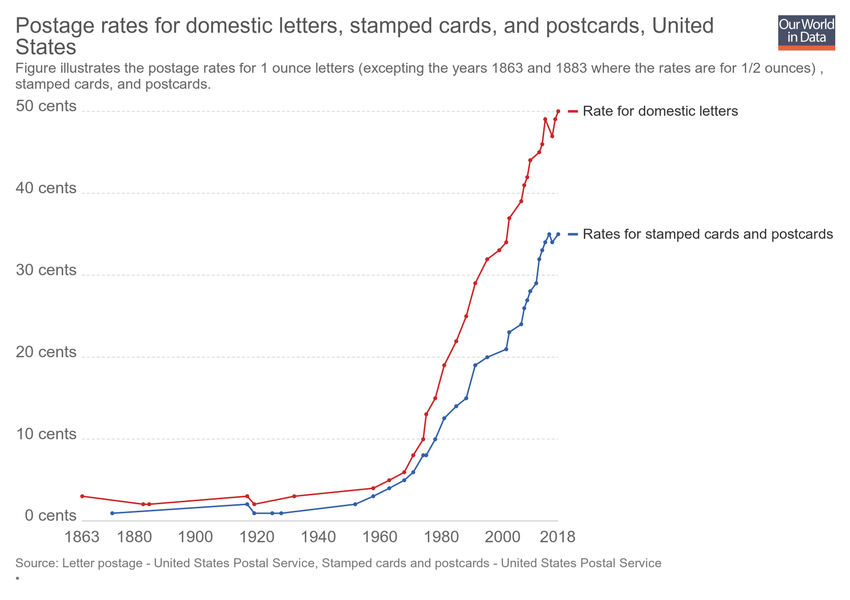
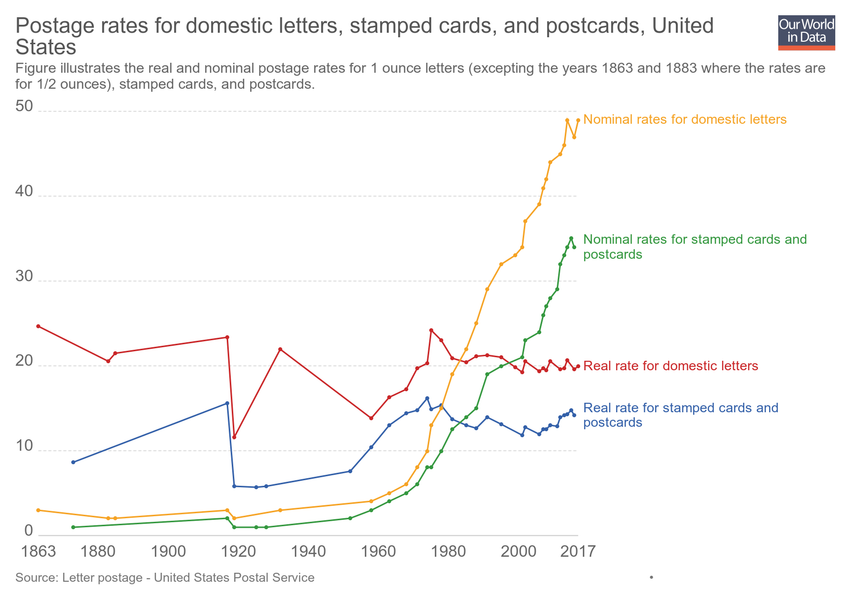
Updating chart postage-rates-for-domestic-letters-stamped-cards-and-postcards

diff --git a/grapher/postage-rates-for-domestic-letters-stamped-cards-and-postcards.html b/grapher/postage-rates-for-domestic-letters-stamped-cards-and-postcards.html
@@ -1,4 +1,4 @@
-<!doctype html><html><head><meta name="viewport" content="width=device-width, initial-scale=1" /><title>Postage rates for domestic letters, stamped cards, and postcards - Our World in Data</title><meta name="description" content="Figure illustrates the postage rates for 1 ounce letters (excepting the years 1863 and 1883 where the rates are for 1/2 ounces) , stamped cards, and postcards." /><link rel="canonical" href="https://ourworldindata.org/grapher/postage-rates-for-domestic-letters-stamped-cards-and-postcards" /><meta property="fb:app_id" content="1149943818390250" /><meta property="og:url" content="https://ourworldindata.org/grapher/postage-rates-for-domestic-letters-stamped-cards-and-postcards" /><meta property="og:title" content="Postage rates for domestic letters, stamped cards, and postcards" /><meta property="og:description" content="Figure illustrates the postage rates for 1 ounce letters (excepting the years 1863 and 1883 where the rates are for 1/2 ounces) , stamped cards, and postcards." /><meta property="og:image" content="https://ourworldindata.org/grapher/exports/postage-rates-for-domestic-letters-stamped-cards-and-postcards.png?v=1" /><meta property="og:image:width" content="850" /><meta property="og:image:height" content="600" /><meta property="og:site_name" content="Our World in Data" /><meta name="twitter:card" content="summary_large_image" /><meta name="twitter:site" content="@OurWorldInData" /><meta name="twitter:creator" content="@OurWorldInData" /><meta name="twitter:title" content="Postage rates for domestic letters, stamped cards, and postcards" /><meta name="twitter:description" content="Figure illustrates the postage rates for 1 ounce letters (excepting the years 1863 and 1883 where the rates are for 1/2 ounces) , stamped cards, and postcards." /><meta name="twitter:image" content="https://ourworldindata.org/grapher/exports/postage-rates-for-domestic-letters-stamped-cards-and-postcards.png?v=1" /><style>
+<!doctype html><html><head><meta name="viewport" content="width=device-width, initial-scale=1" /><title>Postage rates for domestic letters, stamped cards, and postcards - Our World in Data</title><meta name="description" content="Figure illustrates the real and nominal postage rates for 1 ounce letters (excepting the years 1863 and 1883 where the rates are for 1/2 ounces), stamped cards, and postcards." /><link rel="canonical" href="https://ourworldindata.org/grapher/postage-rates-for-domestic-letters-stamped-cards-and-postcards" /><meta property="fb:app_id" content="1149943818390250" /><meta property="og:url" content="https://ourworldindata.org/grapher/postage-rates-for-domestic-letters-stamped-cards-and-postcards" /><meta property="og:title" content="Postage rates for domestic letters, stamped cards, and postcards" /><meta property="og:description" content="Figure illustrates the real and nominal postage rates for 1 ounce letters (excepting the years 1863 and 1883 where the rates are for 1/2 ounces), stamped cards, and postcards." /><meta property="og:image" content="https://ourworldindata.org/grapher/exports/postage-rates-for-domestic-letters-stamped-cards-and-postcards.png?v=3" /><meta property="og:image:width" content="850" /><meta property="og:image:height" content="600" /><meta property="og:site_name" content="Our World in Data" /><meta name="twitter:card" content="summary_large_image" /><meta name="twitter:site" content="@OurWorldInData" /><meta name="twitter:creator" content="@OurWorldInData" /><meta name="twitter:title" content="Postage rates for domestic letters, stamped cards, and postcards" /><meta name="twitter:description" content="Figure illustrates the real and nominal postage rates for 1 ounce letters (excepting the years 1863 and 1883 where the rates are for 1/2 ounces), stamped cards, and postcards." /><meta name="twitter:image" content="https://ourworldindata.org/grapher/exports/postage-rates-for-domestic-letters-stamped-cards-and-postcards.png?v=3" /><style>
         html, body {
             height: 100%;
             margin: 0;
@@ -20,8 +20,8 @@
         }
     </style><noscript><style>
                     figure { display: none !important; }
-                </style></noscript><link rel="stylesheet" href="https://ourworldindata.org/grapher/assets/commons.bundle.a7ce280024c736539280.css" /><link rel="preload" href="/grapher/data/variables/96608+96609.json?v=1" as="fetch" crossorigin /></head><body class="singleChart"><figure data-grapher-src="/grapher/postage-rates-for-domestic-letters-stamped-cards-and-postcards"></figure><noscript id="fallback"><img src="/grapher/exports/postage-rates-for-domestic-letters-stamped-cards-and-postcards.svg" /><p>Interactive visualization requires JavaScript</p></noscript><script src="https://cdn.polyfill.io/v2/polyfill.min.js?features=es6,fetch"></script><script src="https://ourworldindata.org/grapher/assets/commons.bundle.a7ce280024c736539280.js"></script><script src="https://ourworldindata.org/grapher/assets/charts.bundle.dcf65b68eddaba4c6a58.js"></script><script>
-        var jsonConfig = {"map":{"projection":"World","colorSchemeLabels":[],"colorSchemeValues":[],"colorSchemeMinValue":0,"customNumericColors":[],"customCategoryColors":{},"customCategoryLabels":{},"customHiddenCategories":{}},"tab":"chart","slug":"postage-rates-for-domestic-letters-stamped-cards-and-postcards","type":"LineChart","title":"Postage rates for domestic letters, stamped cards, and postcards","xAxis":{"scaleType":"linear"},"yAxis":{"min":0,"scaleType":"linear"},"version":1,"subtitle":"Figure illustrates the postage rates for 1 ounce letters (excepting the years 1863 and 1883 where the rates are for 1/2 ounces) , stamped cards, and postcards.","hasMapTab":false,"stackMode":"absolute","dimensions":[{"display":{"name":"Rate for domestic letters"},"property":"y","variableId":96608},{"display":{"name":"Rates for stamped cards and postcards","unit":"cents"},"property":"y","variableId":96609}],"isAutoSlug":true,"hasChartTab":true,"isPublished":true,"selectedData":[{"index":0,"entityId":13},{"index":1,"entityId":13}],"addCountryMode":"change-country","id":2554};
+                </style></noscript><link rel="stylesheet" href="https://ourworldindata.org/grapher/assets/commons.bundle.a7ce280024c736539280.css" /><link rel="preload" href="/grapher/data/variables/97398+97397+96608+96609.json?v=3" as="fetch" crossorigin /></head><body class="singleChart"><figure data-grapher-src="/grapher/postage-rates-for-domestic-letters-stamped-cards-and-postcards"></figure><noscript id="fallback"><img src="/grapher/exports/postage-rates-for-domestic-letters-stamped-cards-and-postcards.svg" /><p>Interactive visualization requires JavaScript</p></noscript><script src="https://cdn.polyfill.io/v2/polyfill.min.js?features=es6,fetch"></script><script src="https://ourworldindata.org/grapher/assets/commons.bundle.a7ce280024c736539280.js"></script><script src="https://ourworldindata.org/grapher/assets/charts.bundle.dcf65b68eddaba4c6a58.js"></script><script>
+        var jsonConfig = {"id":2554,"map":{"projection":"World","colorSchemeLabels":[],"colorSchemeValues":[],"colorSchemeMinValue":0,"customNumericColors":[],"customCategoryColors":{},"customCategoryLabels":{},"customHiddenCategories":{}},"tab":"chart","slug":"postage-rates-for-domestic-letters-stamped-cards-and-postcards","type":"LineChart","title":"Postage rates for domestic letters, stamped cards, and postcards","xAxis":{"scaleType":"linear"},"yAxis":{"max":50,"min":0,"scaleType":"linear"},"version":3,"subtitle":"Figure illustrates the real and nominal postage rates for 1 ounce letters (excepting the years 1863 and 1883 where the rates are for 1/2 ounces), stamped cards, and postcards.","hasMapTab":false,"stackMode":"absolute","dimensions":[{"display":{"name":"Real rate for domestic letters","numDecimalPlaces":0},"property":"y","variableId":97398},{"display":{"name":"Real rate for stamped cards and postcards","numDecimalPlaces":0},"property":"y","variableId":97397},{"display":{"name":"Nominal rates for domestic letters","numDecimalPlaces":0},"property":"y","variableId":96608},{"display":{"name":"Nominal rates for stamped cards and postcards","numDecimalPlaces":0},"property":"y","variableId":96609}],"hasChartTab":true,"isPublished":true,"selectedData":[{"index":0,"entityId":13},{"index":1,"entityId":13},{"index":2,"entityId":13},{"index":3,"entityId":13}],"addCountryMode":"change-country","baseColorScheme":"owid-distinct"};
         var figure = document.getElementsByTagName("figure")[0];
         try {
             window.App = {};
